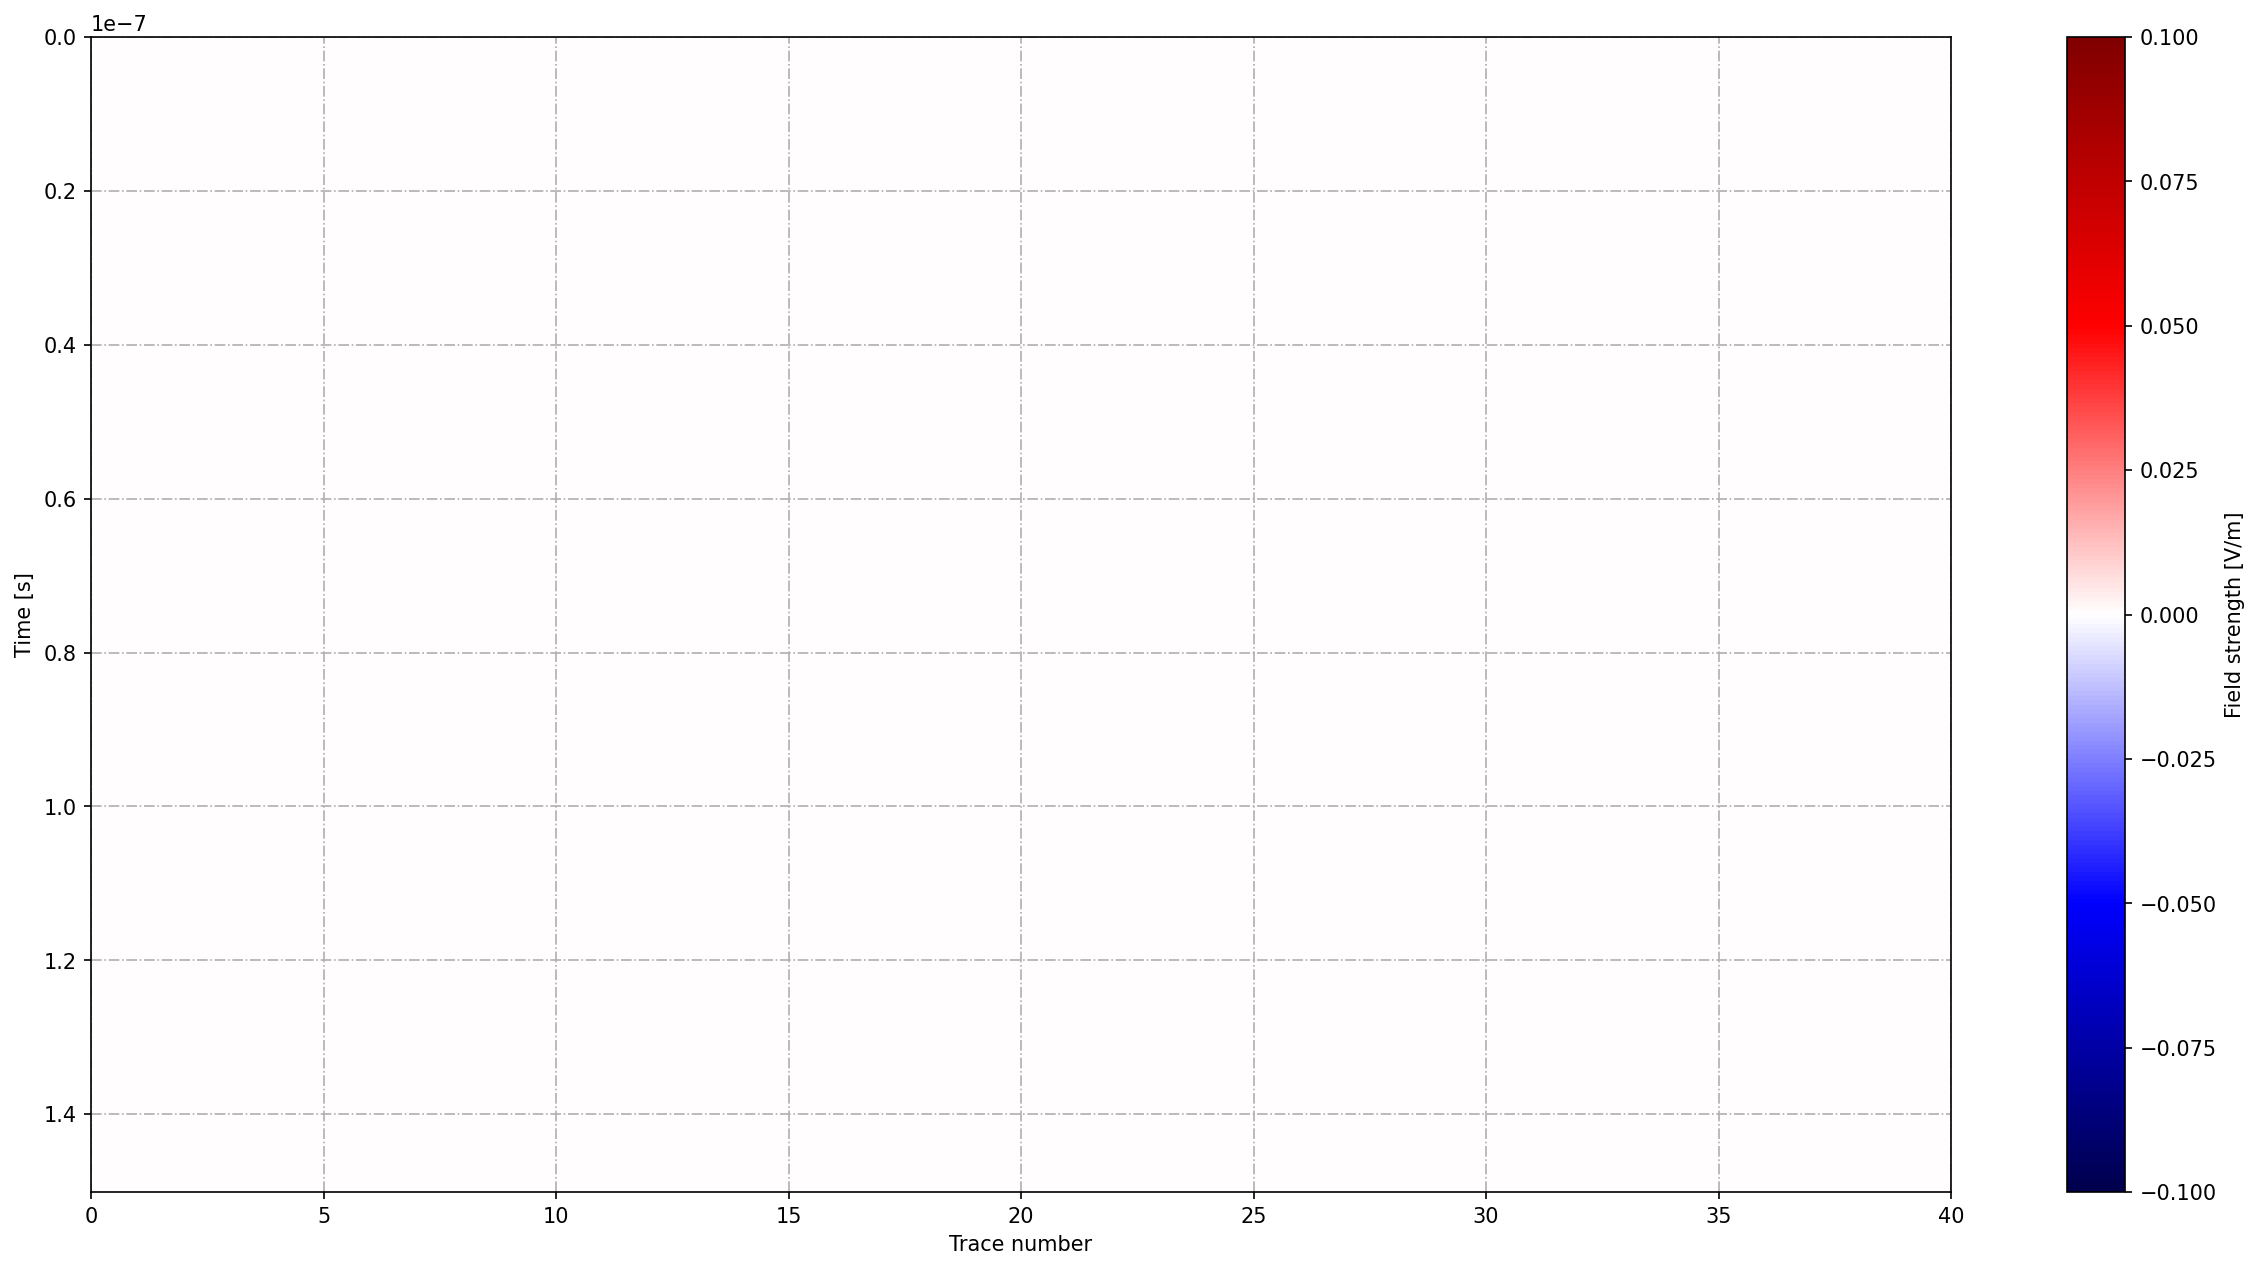
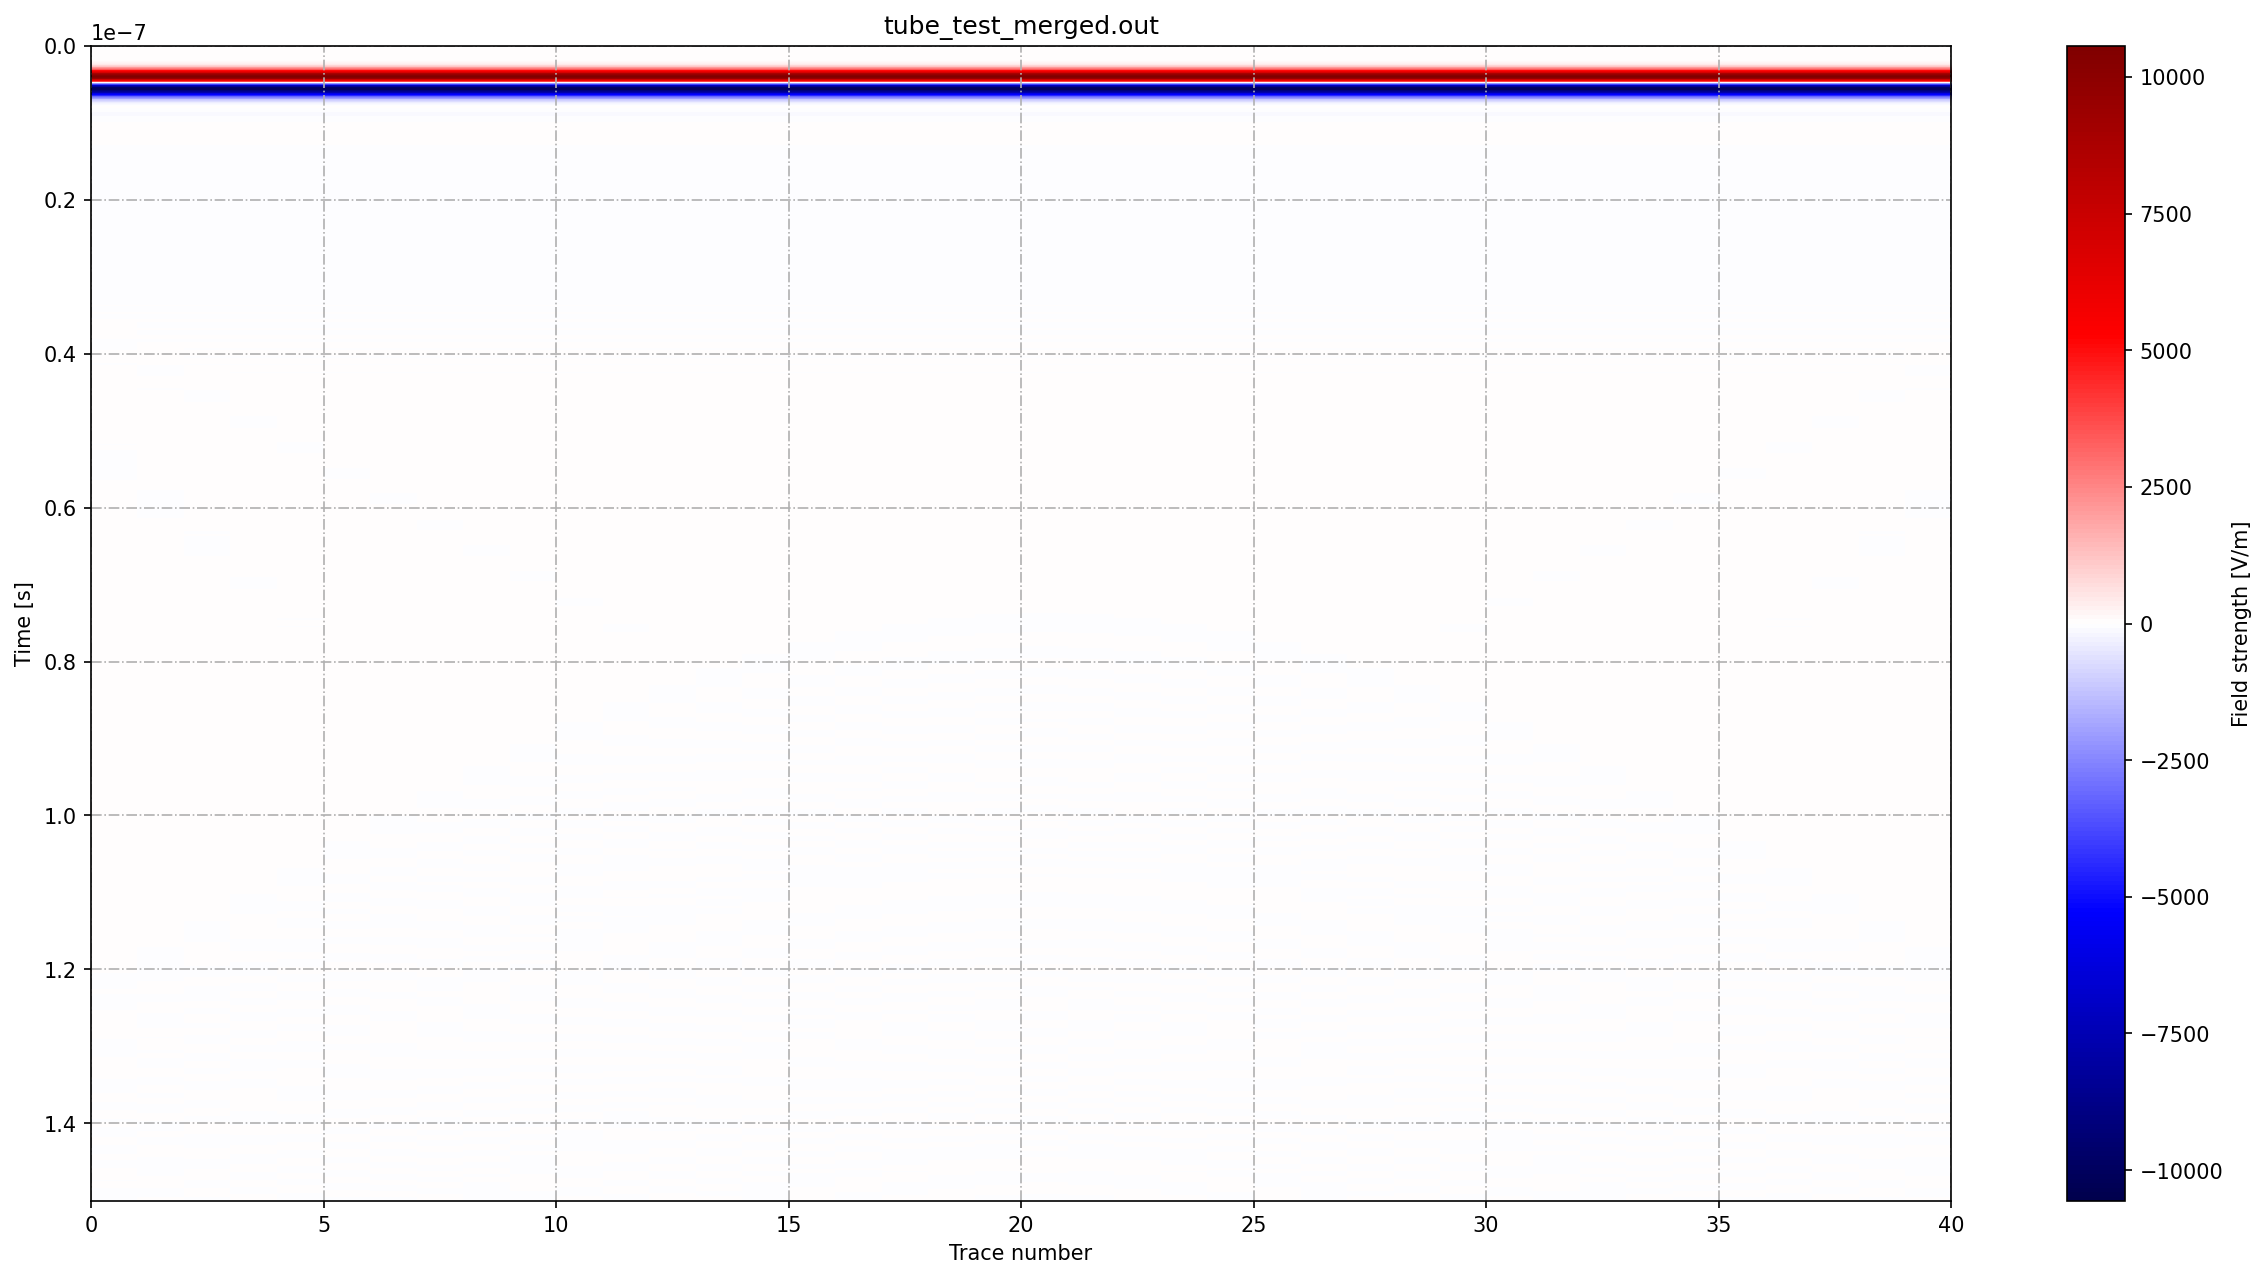
0.01で計算しようとしたけど無理だったからやめた

diff --git a/tools/plot_Bscan.py b/tools/plot_Bscan.py
@@ -63,7 +63,7 @@ def mpl_plot(filename, outputdata, dt, rxnumber, rxcomponent):
                vmin=-np.amax(np.abs(outputdata)), vmax=np.amax(np.abs(outputdata)))
     plt.xlabel('Trace number')
     plt.ylabel('Time [s]')
-    # plt.title('{}'.format(filename))
+    plt.title('{}'.format(filename))
 
     # Grid properties
     ax = fig.gca()
